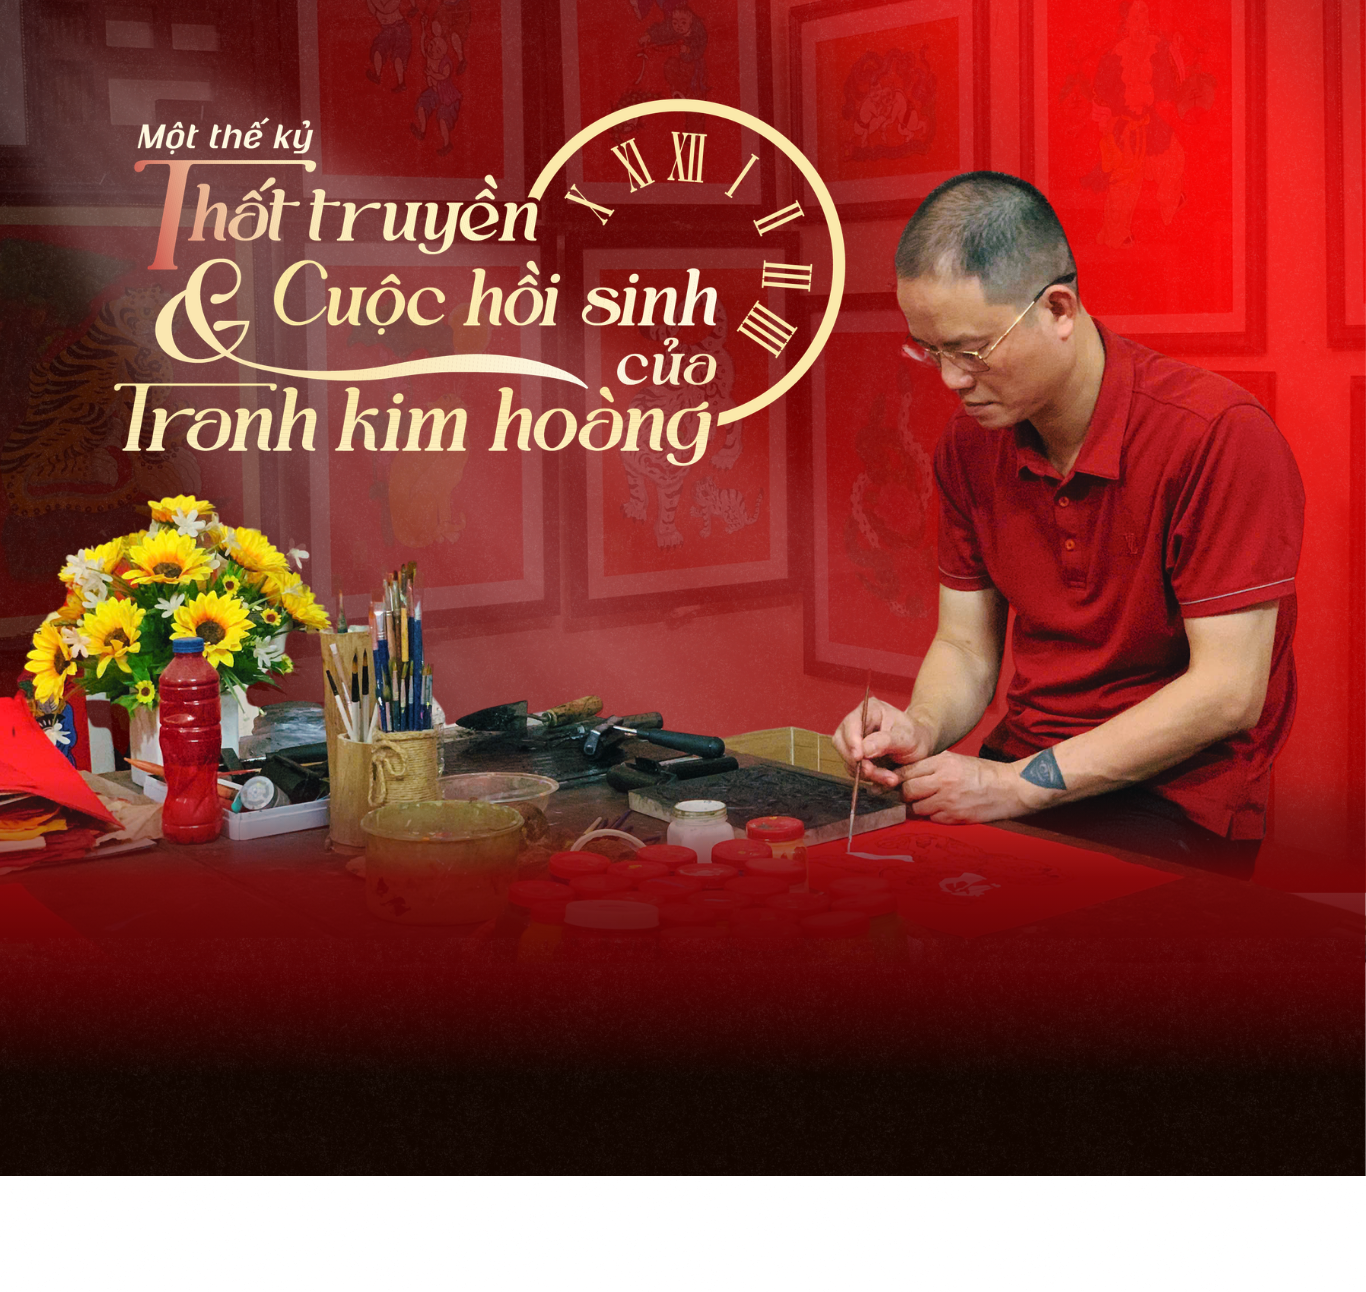
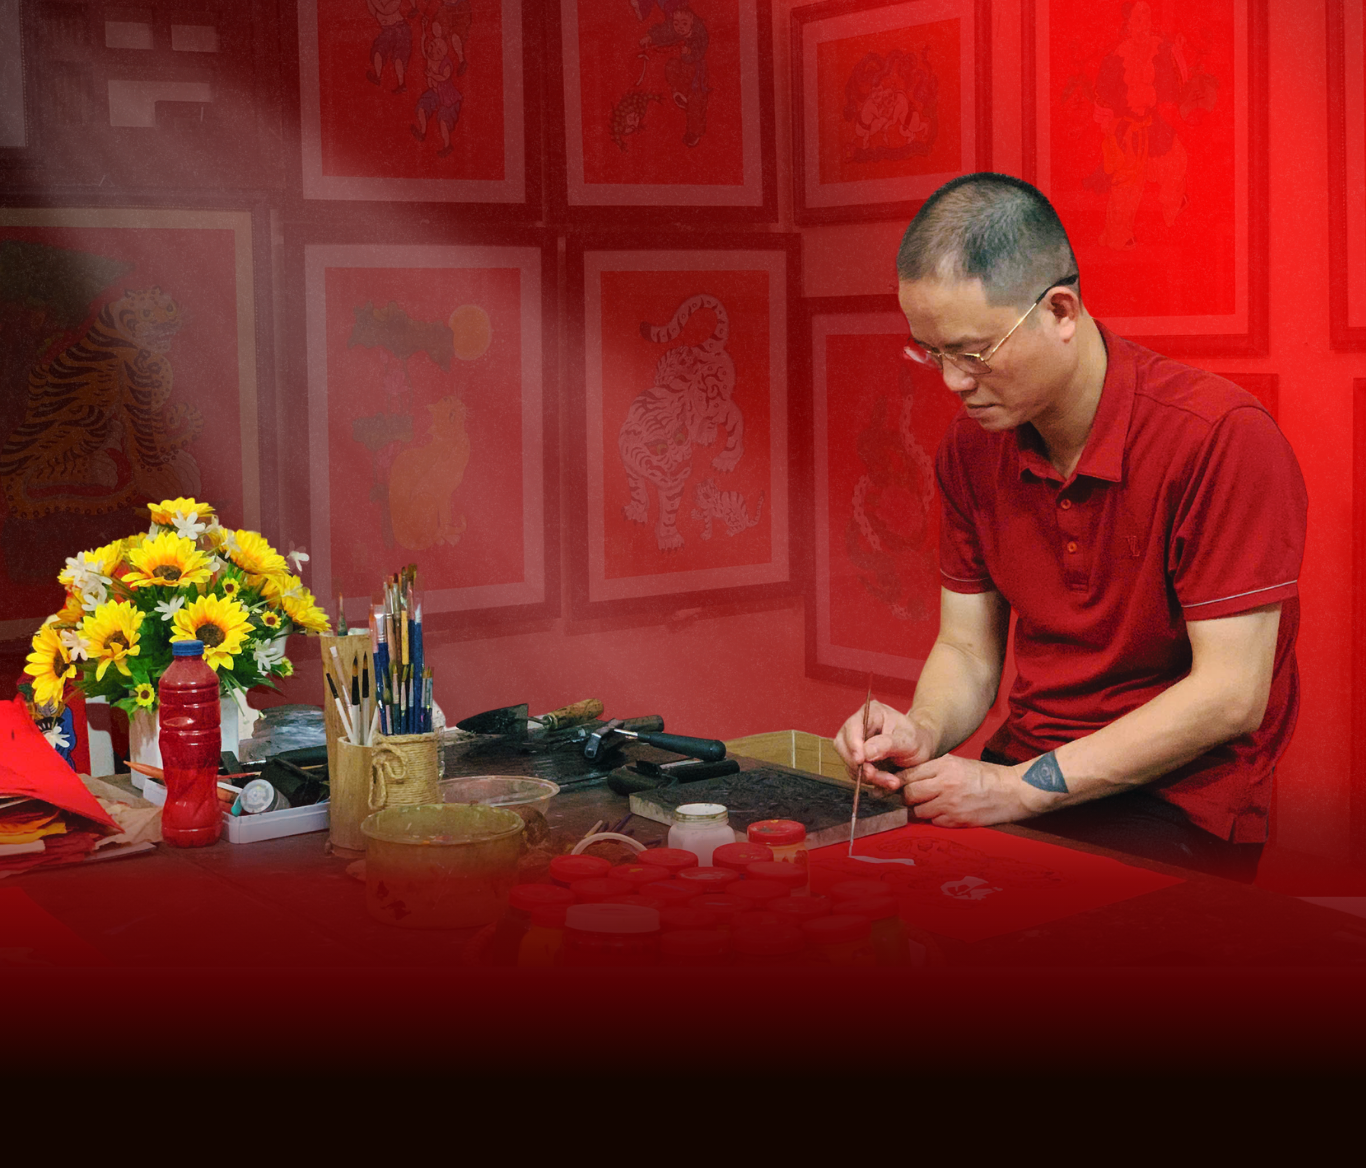
vdvsvd

diff --git a/kim-hoang-megastory-demo-v2.html b/kim-hoang-megastory-demo-v2.html
@@ -14,6 +14,12 @@
       font-display: swap;
     }
 
+    @font-face {
+      font-family: "NVNBeloved";
+      src: url("NVNBeloved.ttf") format("truetype");
+      font-display: swap;
+    }
+
     /* SỬA FONT CHỮ VÀ MÀU CHỦ ĐẠO TẠI ĐÂY: thay các biến --red, --paper, --serif, --sans nếu cần. */
     :root {
       --red: #a52323;
@@ -25,7 +31,7 @@
       --muted: #7b7064;
       --white: #fffaf0;
       --shadow: 0 24px 70px rgba(25, 21, 18, .18);
-      --title-font: "LHanoienne", Arial, Tahoma, "Segoe UI", sans-serif;
+      --title-font: "NVNBeloved", "LHanoienne", Arial, Tahoma, "Segoe UI", sans-serif;
       --body-font: Montserrat, Arial, Tahoma, "Segoe UI", Helvetica, sans-serif;
       --serif: var(--title-font);
       --sans: var(--body-font);
@@ -113,8 +119,13 @@
     }
 
     .chapter-nav {
+      position: absolute;
+      left: 50%;
+      transform: translateX(-50%);
       display: flex;
-      gap: .3rem
+      justify-content: center;
+      gap: .3rem;
+      pointer-events: none
     }
 
     .chapter-nav a {
@@ -125,7 +136,8 @@
       display: grid;
       place-items: center;
       text-decoration: none;
-      font-size: .7rem
+      font-size: .7rem;
+      pointer-events: auto
     }
 
     .chapter-nav a:hover,
@@ -215,10 +227,15 @@
 
     .hero-meta {
       display: flex;
-      gap: 1.5rem;
-      flex-wrap: wrap;
-      font-size: .78rem;
+      flex-direction: column;
+      gap: .38rem;
+      font-size: clamp(.82rem, .72vw, .95rem);
+      line-height: 1.45;
       color: #eac8b6
+    }
+
+    .hero-meta span {
+      display: block
     }
 
     .hero-paper {
@@ -266,7 +283,7 @@
       left: 50%;
       transform: translateX(-50%);
       text-decoration: none;
-      font-size: .78rem;
+      font-size: clamp(1rem, 1vw, 1.15rem);
       letter-spacing: .12em;
       text-transform: uppercase;
       display: flex;
@@ -3374,11 +3391,11 @@
       }
 
       .hero-meta {
-        font-size: .72rem
+        font-size: .82rem
       }
 
       .scroll-cue {
-        font-size: .68rem
+        font-size: .9rem
       }
     }
 
@@ -5012,8 +5029,8 @@
       }
 
       .hero-meta {
-        gap: .5rem 1rem;
-        font-size: .7rem
+        gap: .35rem;
+        font-size: .82rem
       }
 
       .hero-paper.hero-image-stack {
@@ -6113,7 +6130,7 @@
     }
     /* ===== UI FIX PASS: typography, overlap and responsive spacing ===== */
     :root {
-      --title-font: "LHanoienne", Arial, Tahoma, "Segoe UI", sans-serif;
+      --title-font: "NVNBeloved", "LHanoienne", Arial, Tahoma, "Segoe UI", sans-serif;
       --body-font: Montserrat, Arial, Tahoma, "Segoe UI", Helvetica, sans-serif;
       --vietnamese-ui: var(--body-font);
       --sans: var(--body-font);
@@ -6201,12 +6218,27 @@
     .trial-copy h3,
     .return-copy h3,
     .chapter-four h3 {
-      font-family: var(--body-font) !important;
       letter-spacing: 0 !important;
       font-kerning: normal;
       text-rendering: auto;
       overflow-wrap: normal;
       word-break: normal;
+    }
+
+    h2,
+    h3,
+    .photo-prologue h2,
+    .artist-copy h3,
+    .red-lab-copy h3,
+    .trial-copy h3,
+    .return-copy h3,
+    .chapter-four h3,
+    .future-copy h3 {
+      font-family: var(--title-font) !important;
+    }
+
+    h4 {
+      font-family: var(--body-font) !important;
     }
 
     .chapter-opener h2,
@@ -6232,13 +6264,13 @@
     }
 
     .hero-copy {
-      max-width: 620px;
+      max-width: 760px;
     }
 
     .hero h1 {
       font-size: clamp(3rem, 5.45vw, 6.15rem) !important;
-      line-height: .94 !important;
-      max-width: 10.8ch;
+      line-height: 1.08 !important;
+      max-width: 13.4ch;
     }
 
     .deck {
@@ -6277,14 +6309,21 @@
 
     .revival-copy h2,
     .chapter-four .final-copy h2 {
-      max-width: 12ch;
-      line-height: .95 !important;
+      max-width: 15.5ch;
+      line-height: 1.12 !important;
     }
 
     .red-lab-copy h3 {
       font-size: clamp(2.15rem, 3.55vw, 4rem) !important;
-      line-height: 1.08 !important;
-      max-width: 11.8ch;
+      line-height: 1.14 !important;
+      max-width: 15ch;
+    }
+
+    .chapter-opener h2,
+    .photo-prologue h2,
+    .closing h2 {
+      max-width: 15ch;
+      line-height: 1.12 !important;
     }
 
     .artist-copy h3,
@@ -6292,7 +6331,8 @@
     .return-copy h3,
     .chapter-four h3,
     .future-copy h3 {
-      line-height: 1.08 !important;
+      max-width: 17ch;
+      line-height: 1.14 !important;
     }
 
     .red-lab-copy blockquote,
@@ -6358,7 +6398,7 @@
 
     .future-copy h3 {
       font-size: clamp(2rem, 3.8vw, 4.3rem) !important;
-      max-width: 880px;
+      max-width: min(100%, 17ch);
     }
 
     .chapter-four .future-counters strong {
@@ -6367,7 +6407,7 @@
     }
 
     .closing h2 {
-      line-height: 1.02 !important;
+      line-height: 1.12 !important;
     }
 
     @media(max-width:900px) {
@@ -6378,12 +6418,13 @@
       }
 
       .hero-copy {
-        max-width: min(100%, 620px);
+        max-width: min(100%, 720px);
       }
 
       .hero h1 {
         font-size: clamp(2.45rem, 10vw, 4.5rem) !important;
-        max-width: 11ch;
+        line-height: 1.08 !important;
+        max-width: 12.8ch;
       }
 
       .hero-paper.hero-image-stack {
@@ -6414,6 +6455,8 @@
       .chapter-four h3,
       .future-copy h3 {
         font-size: clamp(2rem, 8vw, 3.4rem) !important;
+        line-height: 1.14 !important;
+        max-width: 16ch;
       }
     }
 
@@ -6437,6 +6480,8 @@
 
       .hero h1 {
         font-size: clamp(2.05rem, 11vw, 3.1rem) !important;
+        line-height: 1.1 !important;
+        max-width: 12.4ch;
       }
 
       .deck {
@@ -6452,6 +6497,7 @@
       .red-lab-copy h3 {
         max-width: none;
         font-size: clamp(2rem, 9vw, 3rem) !important;
+        line-height: 1.15 !important;
       }
     }
   </style>
@@ -6461,7 +6507,7 @@
   <div class="progress" aria-hidden="true"><span id="readingProgress"></span></div>
 
   <header class="topbar" id="topbar">
-    <a class="brand" href="#hero" aria-label="Về đầu trang">SẮC ĐỎ TRỞ VỀ</a>
+    <a class="brand" href="#hero" aria-label="Về đầu trang"></a>
     <nav class="chapter-nav" aria-label="Điều hướng chương">
       <a href="#chapter-1">01</a>
       <a href="#chapter-2">02</a>
@@ -6485,14 +6531,15 @@
           loading="eager" />
       </div>
       <div class="hero-copy">
-        <!-- SỬA NHÃN PHỤ PHẦN HERO TẠI ĐÂY -->
-        <p class="eyebrow">MEGASTORY · BẢN DEMO THỊ GIÁC V2</p>
         <!-- SỬA TIÊU ĐỀ TẠI ĐÂY -->
         <h1 id="hero-title">Một thế kỷ<br>thất truyền<br><em>và cuộc hồi sinh</em><br>của tranh đỏ<br>Kim Hoàng</h1>
         <!-- SỬA MÔ TẢ NGẮN DƯỚI TIÊU ĐỀ TẠI ĐÂY -->
-        <p class="deck">Một trải nghiệm báo chí thị giác với màu đỏ son, vàng nghệ, xanh chàm, ảnh toàn màn hình và
-          chuyển động gắn với từng lớp ký ức.</p>
-        <div class="hero-meta"><span>Bài viết: Nhóm dự án</span><span>Thiết kế demo: Prototype</span></div>
+        <p class="deck">Gần một thế kỷ sau khi thất truyền, tranh Kim Hoàng - dòng tranh dân gian từng vang danh đất Kinh Kỳ - đang dần hồi sinh nhờ nỗ lực bền bỉ của nghệ nhân Đào Đình Chung. Từ những tư liệu ít ỏi còn sót lại, ông đã từng bước khôi phục một di sản văn hóa tưởng chừng chỉ còn trong ký ức.</p>
+        <div class="hero-meta">
+          <span>Nội dung: Quang Ngọc, Thu Hiên</span>
+          <span>Hình ảnh: Cẩm Hà, Thu Trang</span>
+          <span>Thiết kế: Quỳnh Như, Bình Minh</span>
+        </div>
       </div>
       <a class="scroll-cue" href="#chapter-1">Cuộn để bắt đầu <span aria-hidden="true">↓</span></a>
     </section>